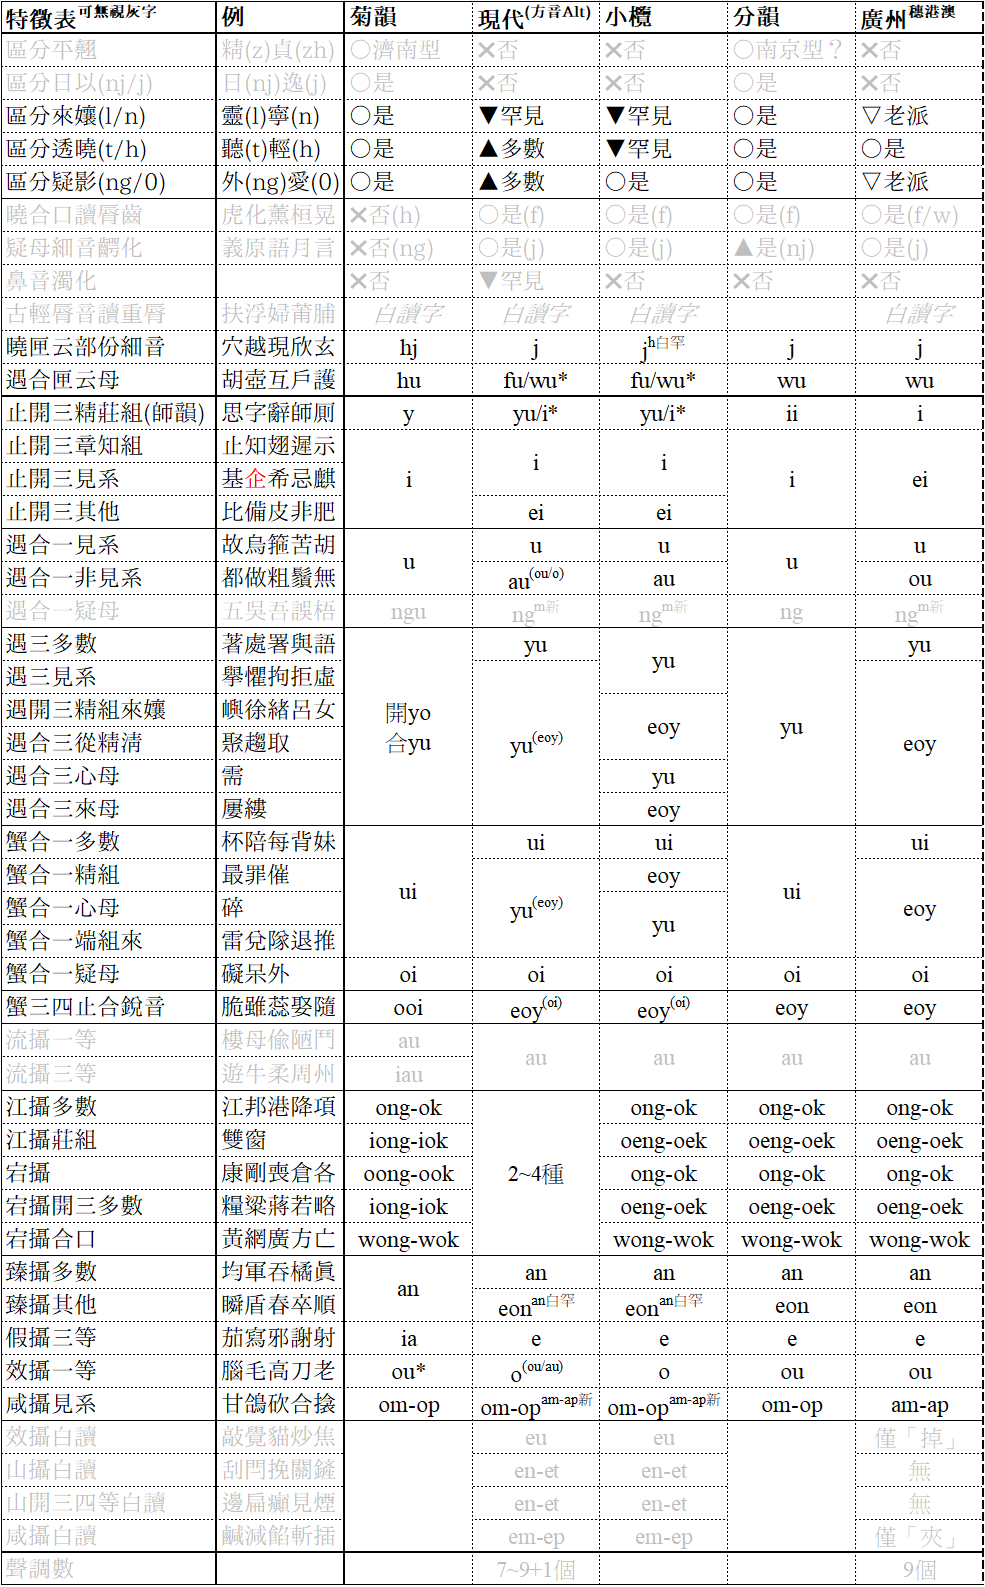
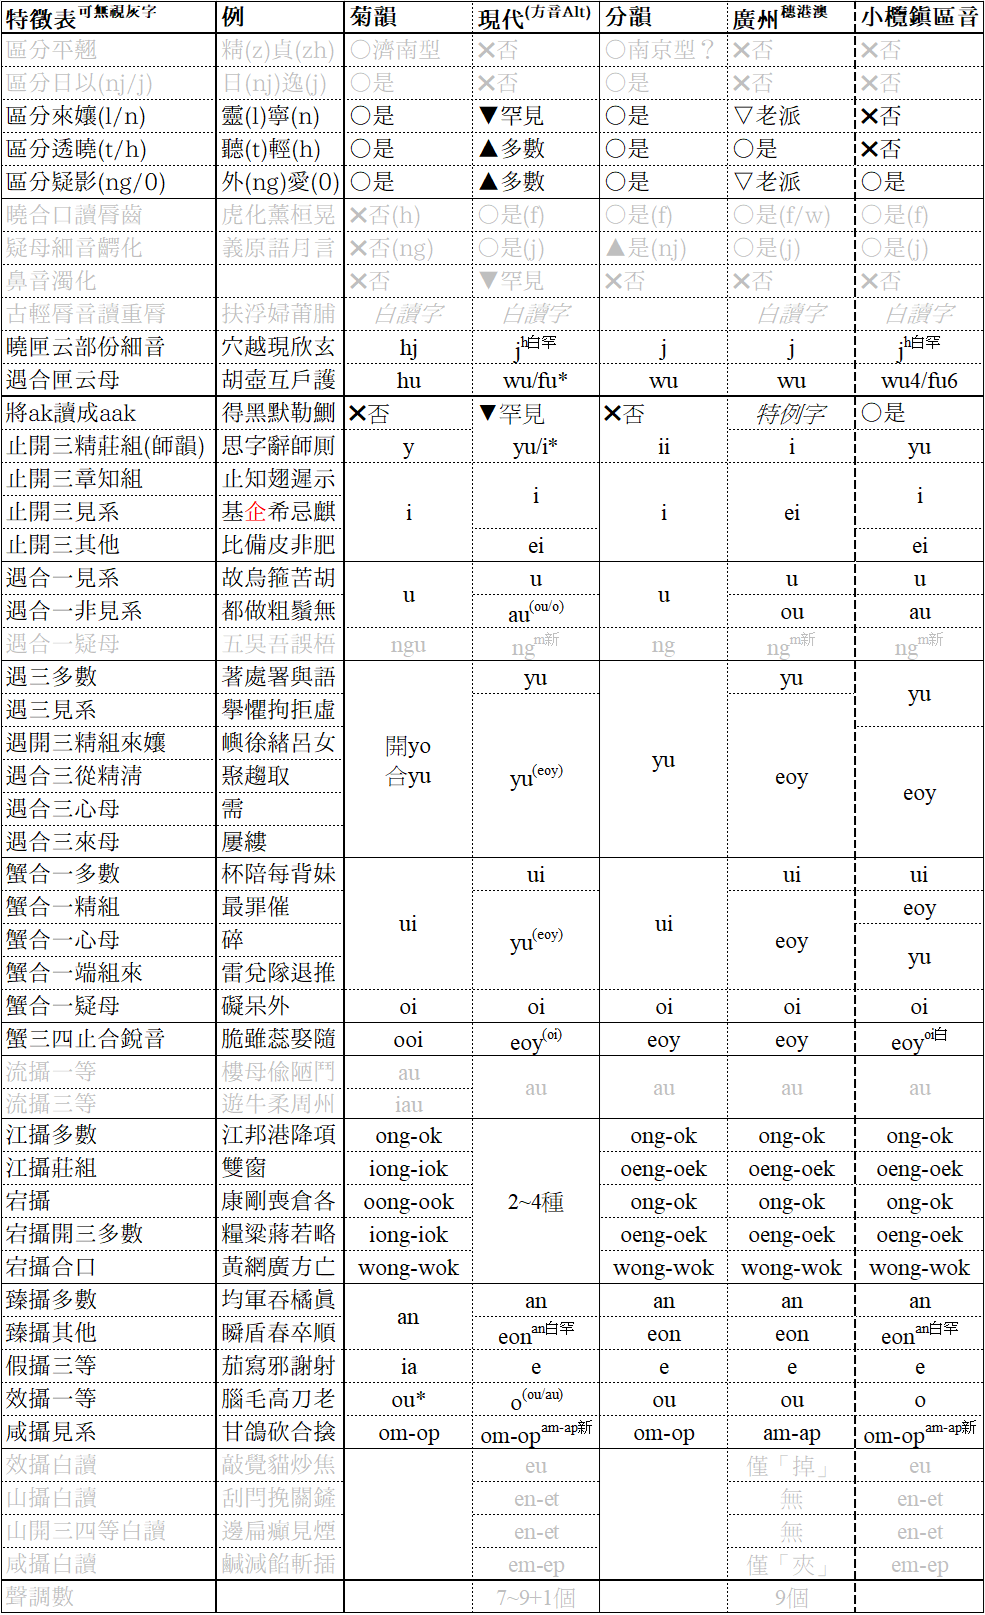
10.0b 小欖話方案 發音修正

diff --git a/readme.md b/readme.md
@@ -61,7 +61,10 @@ This work is licensed under a
 
 #### 預設現代音方案
 
-- `gukwan-fanwan.schema.yaml`：廣州音
+- `gukwan-siulaam-town.schema.yaml`：小欖鎮區音
+  - 本方案根據小欖鎮區音代表特徵製作，建議仔細閱讀方案竝根據自身口音調整，見[特徵段](https://github.com/HoengSaan/rime-gukwan#特徵)。
+
+- `gukwan-canton.schema.yaml`：廣州音
   - 準確來講此方案係廣州風，並不能準確反映所有廣州發音。若欲使用眞正廣州音打字，可參攷以下方案：[rime/rime-cantonese: Rime Cantonese input schema | 粵語拼音輸入方案](https://github.com/rime/rime-cantonese)
 
 ### 字詞
@@ -286,10 +289,13 @@ translator:
     - 如山攝白讀，廣州話並無白讀，而小欖話有「刮」`gwet3`「閂（名詞）」`soet1`「閂（動詞）」`soen1`「關」`gwen1`「挽」`wen5`；「邊」`ben1`「煙」`en1/jen1`「癲」`den1`「見」`gen3`等。
     - 如咸攝白讀，廣州話僅有「夾」`gep3`一字，而小欖話有「減」`gem2`「斬」`zem2`「插」`cep3`「餡」`hem2`等。
     - 臻攝亦有白讀，「順氣（白）」`san6 hi3`。另有其他如「多」`doe1`「頂」`doeng2`等。
+- ak讀成aak（小欖話）
+  - 此現象可確認，尤其老派，新派則相混。
+
 
 ### 聲調
 
-1. 聲調至多爲十個（含特殊調）。陰聲爲古清音，陽聲爲古濁音。平上去入皆有，陰入分上陰入下陰入，對應不同韻母，再加特殊調「2*」。
+1. 聲調至多爲十個（含特殊調）。陰聲爲古清音，陽聲爲古濁音。平上去入皆有，陰入分上陰入下陰入，對應不同韻母，再加特殊調「2*」。下以小欖話爲例：
 2. 同廣州一樣，陰平有高平（55）高降（53）兩種。（加筆：根據《中山方言誌》，多個次方言中，不止陰平，陰上、陽平、陰入皆有兩種調值）
 3. 「2*」並非如廣州只見於入聲字變調（如「雀」`zoek2 /tʃœk35/`、「賊」`caak2 /tʃʰak35/`等），亦常見於陽平字變調，同部分字白讀（「子」白讀`zaai2* /tʃai35/`）、「臘味」`laap6 mei2* /lap2 mei35/`就同本身陰上調值（24）不一。此調亦用作表達過去、完成之文法意味，如「食飯」讀`sik6 faan6 /sik21 faːn21/`則無過去意味，多爲名詞或動詞(eat)。讀`sik2* faan6 /ʃik35 fan35`則表達動作已完成。（爲免麻煩本方案不再另立。）
 4. 陰去本歸陽平，皆讀42，如「睏覺」讀`fan2* geu4 /fɐn35 kɛu42`/（過去・完成）。但受廣州話影響，多數情況下陰去同廣州一樣讀若33。
